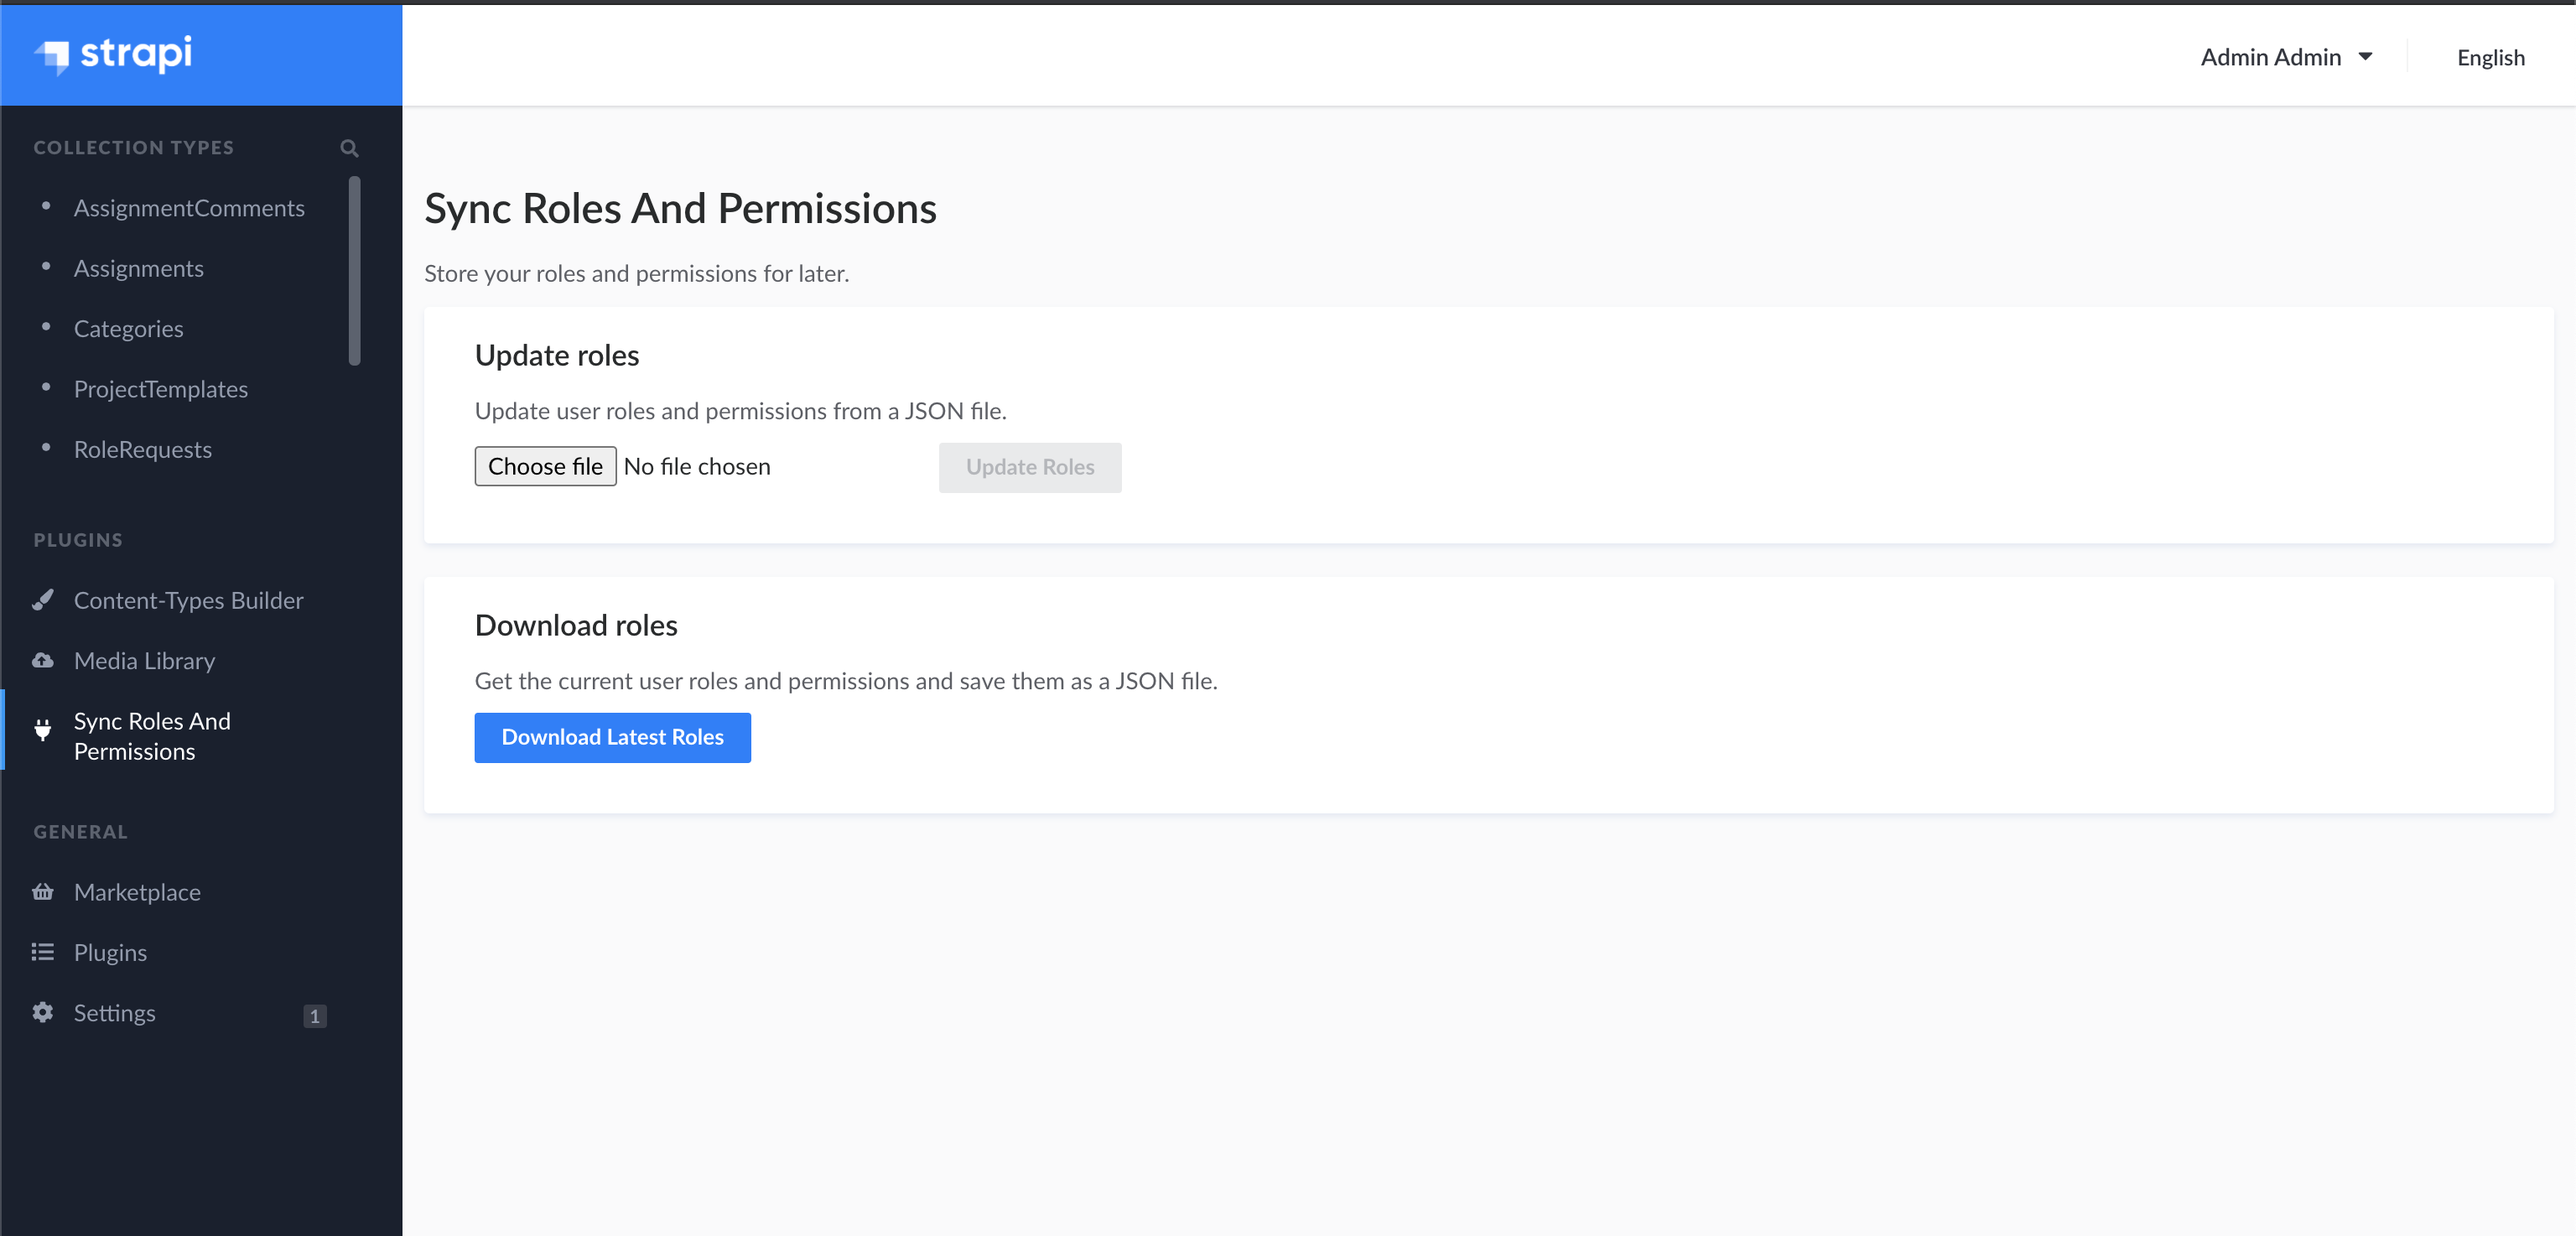
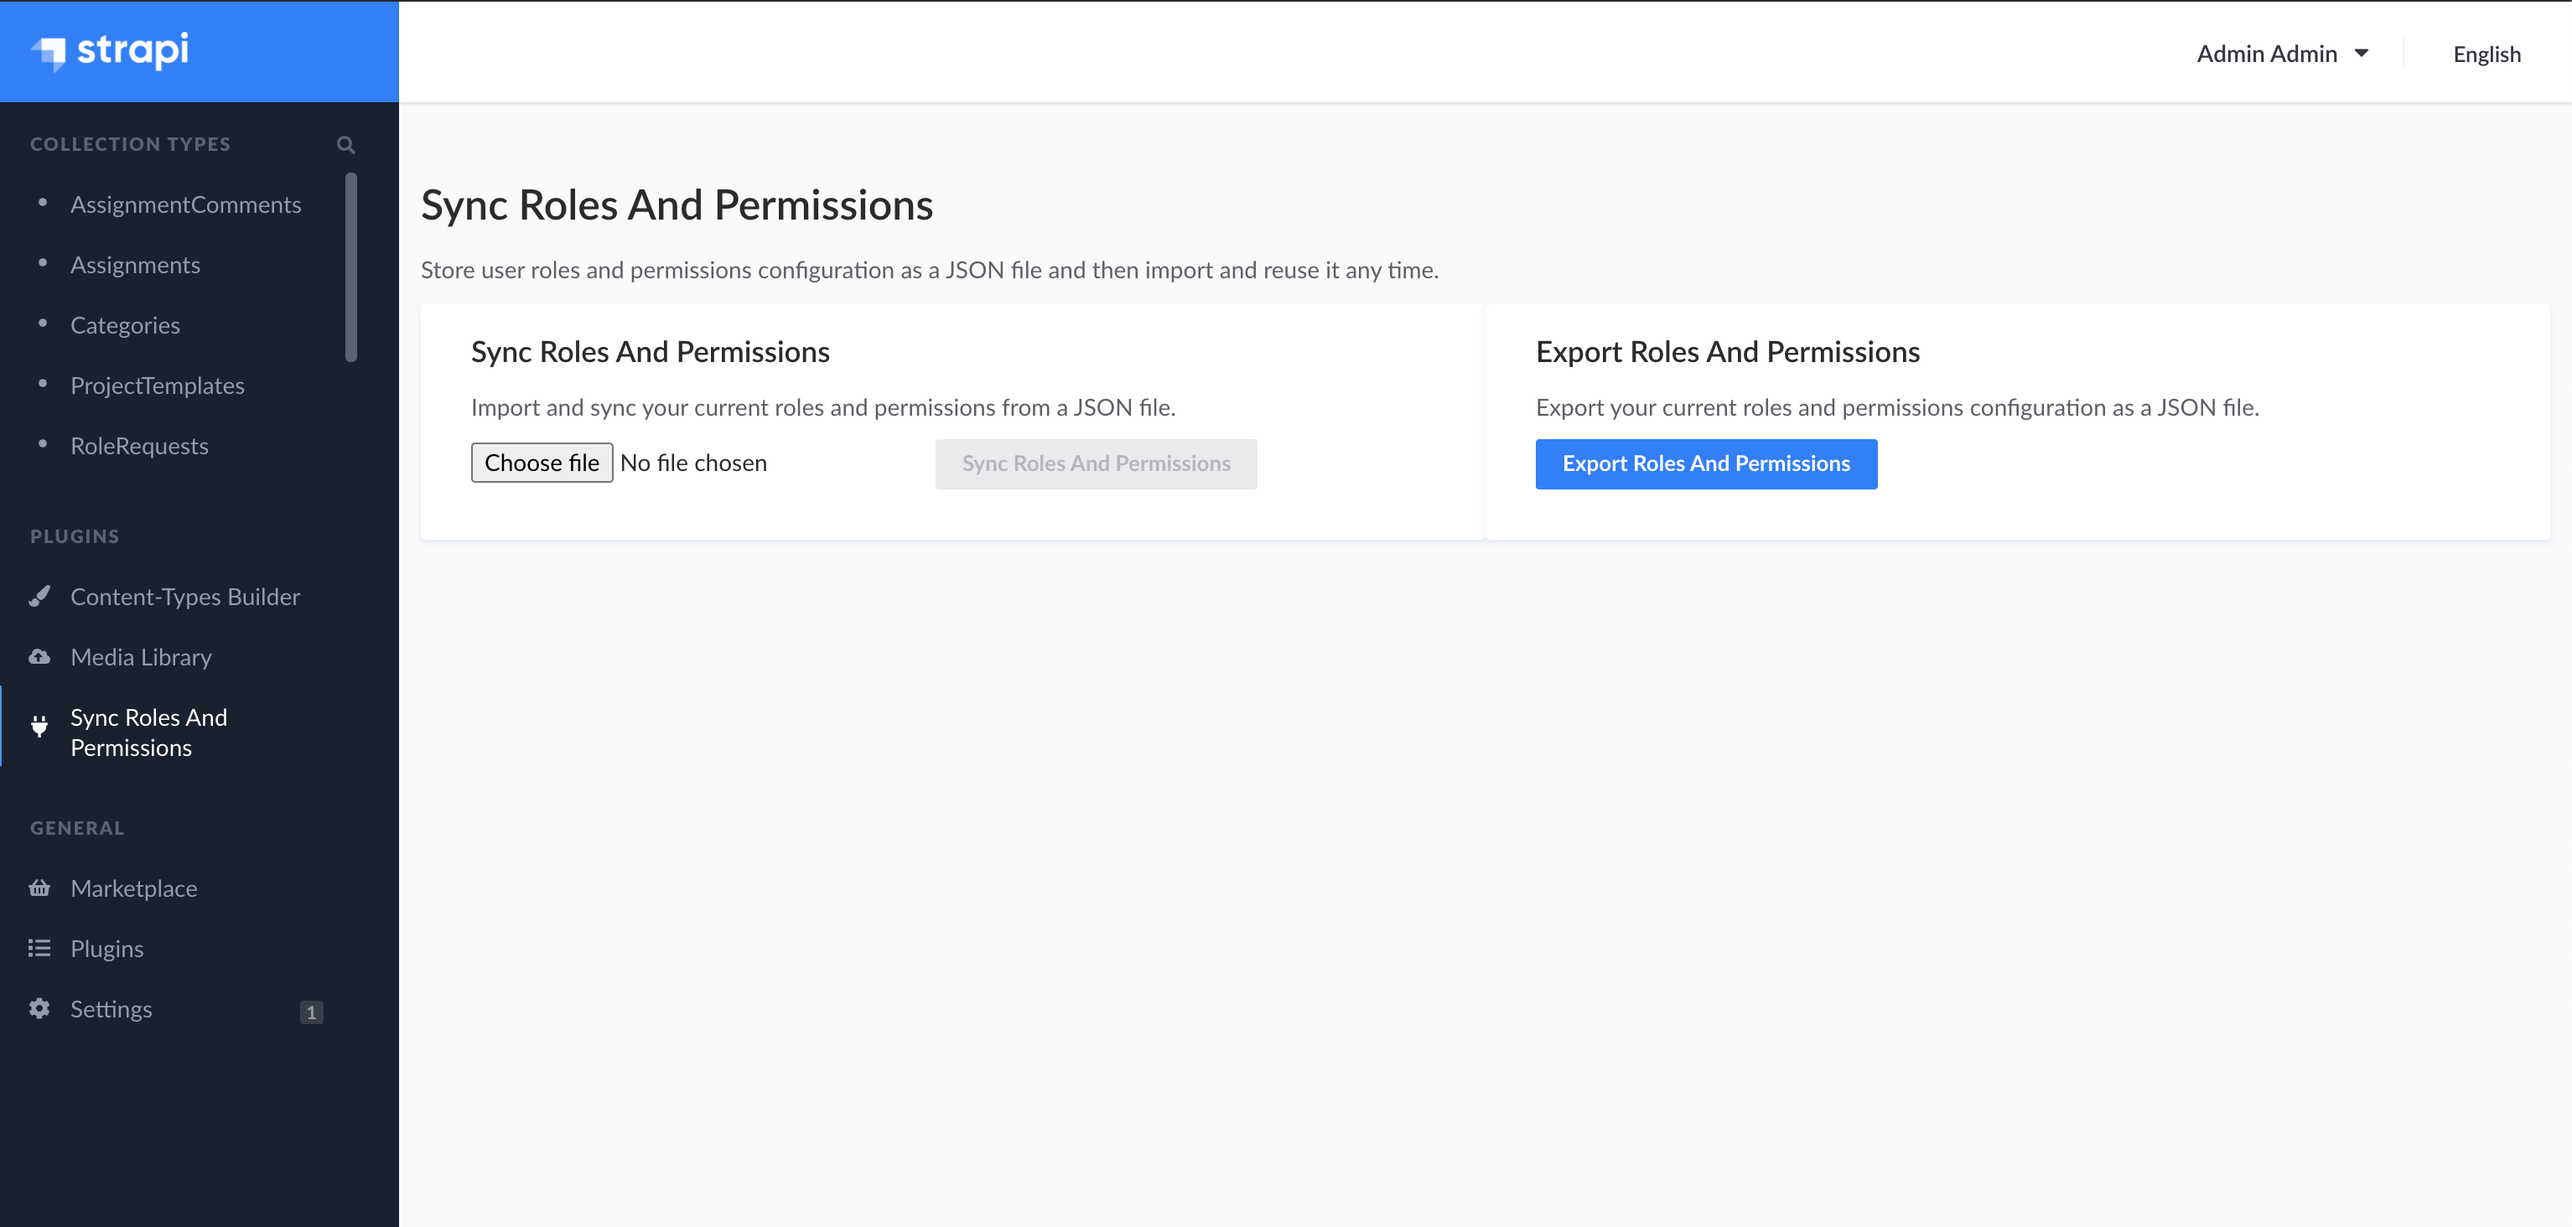
change layout and readme

diff --git a/admin/src/containers/HomePage/index.js b/admin/src/containers/HomePage/index.js
@@ -12,7 +12,7 @@ import readFile from "../../utils/readFile";
 import { request } from "strapi-helper-plugin";
 
 import { Button, Padded } from "@buffetjs/core";
-import { Container, Block, P } from "../../styles";
+import { Container, Block, P, Sections } from "../../styles";
 
 const HomePage = () => {
   const [file, setFile] = React.useState(null);
@@ -55,44 +55,52 @@ const HomePage = () => {
   return (
     <Container top bottom left right>
       <h1>Sync Roles And Permissions</h1>
-      <P>Store your roles and permissions for later.</P>
+      <P>
+        Store user roles and permissions configuration as a JSON file and then
+        import and reuse it any time.
+      </P>
+      <Sections>
+        <Block style={{ flex: 1 }}>
+          <Padded>
+            <h3>Sync Roles And Permissions</h3>
+            <P>
+              Import and sync your current roles and permissions from a JSON
+              file.
+            </P>
+            <input
+              id="upload"
+              accept=".json"
+              onChange={(e) => {
+                const file = e.target.files[0];
+                if (file) {
+                  readFile(file, (value, fileName) => {
+                    setFile(value);
+                  });
+                } else {
+                  setFile(null);
+                }
+              }}
+              type="file"
+            />
 
-      <Block>
-        <Padded>
-          <h3>Update roles</h3>
-          <P>Update user roles and permissions from a JSON file.</P>
-
-          <input
-            id="upload"
-            accept=".json"
-            onChange={(e) => {
-              const file = e.target.files[0];
-              if (file) {
-                readFile(file, (value, fileName) => {
-                  setFile(value);
-                });
-              } else {
-                setFile(null);
-              }
-            }}
-            type="file"
-          />
-
-          <Button onClick={handleRolesUpdate} disabled={!file}>
-            Update Roles
-          </Button>
-        </Padded>
-      </Block>
-      <Block style={{ marginTop: "20px" }}>
-        <Padded size="lg" id="download">
-          <h3>Download roles</h3>
-          <P>
-            Get the current user roles and permissions and save them as a JSON
-            file.
-          </P>
-          <Button onClick={handleDownload}>Download Latest Roles</Button>
-        </Padded>
-      </Block>
+            <Button onClick={handleRolesUpdate} disabled={!file}>
+              Sync Roles And Permissions
+            </Button>
+          </Padded>
+        </Block>
+        <Block style={{ flex: 1 }}>
+          <Padded size="lg" id="download">
+            <h3>Export Roles And Permissions</h3>
+            <P>
+              Export your current roles and permissions configuration as a JSON
+              file.
+            </P>
+            <Button onClick={handleDownload}>
+              Export Roles And Permissions
+            </Button>
+          </Padded>
+        </Block>
+      </Sections>
     </Container>
   );
 };

diff --git a/admin/src/styles/index.js b/admin/src/styles/index.js
@@ -60,8 +60,16 @@ export const Container = styled.div`
   }
 `;
 
+export const Sections = styled.div`
+  display: flex;
+  flex-direction: column;
+  @media screen and (min-width: 992px) {
+    flex-direction: row;
+  }
+`;
+
 export const P = styled.p`
-  max-width: 550px;
+  max-width: 768px;
   padding-top: 10px;
   padding-right: 30px;
   color: #5c5f66;

diff --git a/README.md b/README.md
@@ -2,15 +2,15 @@
 
 [![NPM](https://img.shields.io/npm/v/strapi-plugin-sync-roles-permissions.svg)](https://www.npmjs.com/package/strapi-plugin-sync-roles-permissions)
 
-Store your user roles and permissions for later.
+Store user roles and permissions configuration as a JSON file and then import and reuse it any time.
 
 ![Admin](screenshot.png)
 
 ## Motivation
 
-Sometimes our applications require lots of different types of users with a lot of different permissions. Strapi with it's `strapi-plugin-users-permissions` gives us a lot of functionalities out of the box, which is great. However, it would be nice to be able to store the roles and permissions configuration in order to be able to share it across multiple db's. It is especially useful during development so we don't have to configure it every time.
+Sometimes our applications require lots of different types of users with a lot of different permissions. Strapi with it's `strapi-plugin-users-permissions` gives us a lot of functionalities out of the box, which is great. However, it would be nice to be able to store the roles and permissions configuration in order to be able to share it across multiple instances of the application. It is especially useful during development so we don't have to configure it every time we clear the db.
 
-With this plugin we can store existing roles and permissions configuration as a JSON file at any point of time, and then whenever we need to update the application with the given configuration we can just upload the same JSON file and everything will be set up.
+With this plugin we can export existing roles and permissions configuration as a JSON file at any point of time, and then whenever we need to update the application with the given configuration we can just upload the same JSON file and roles and permissions will be synced in the db.
 
 ## Installation
 
